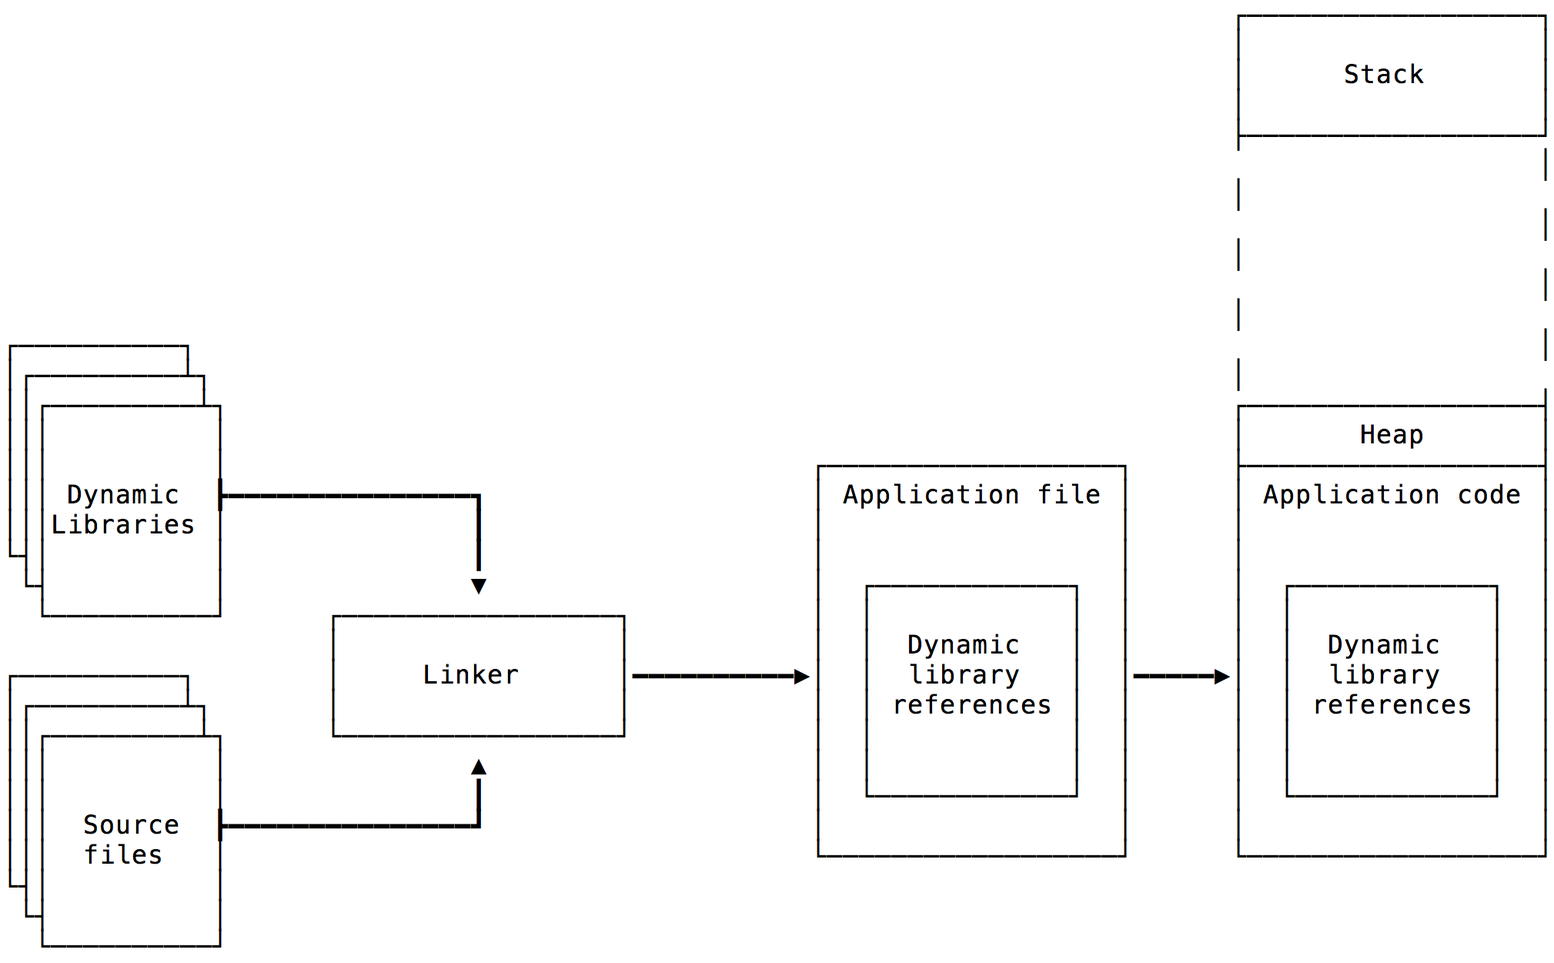
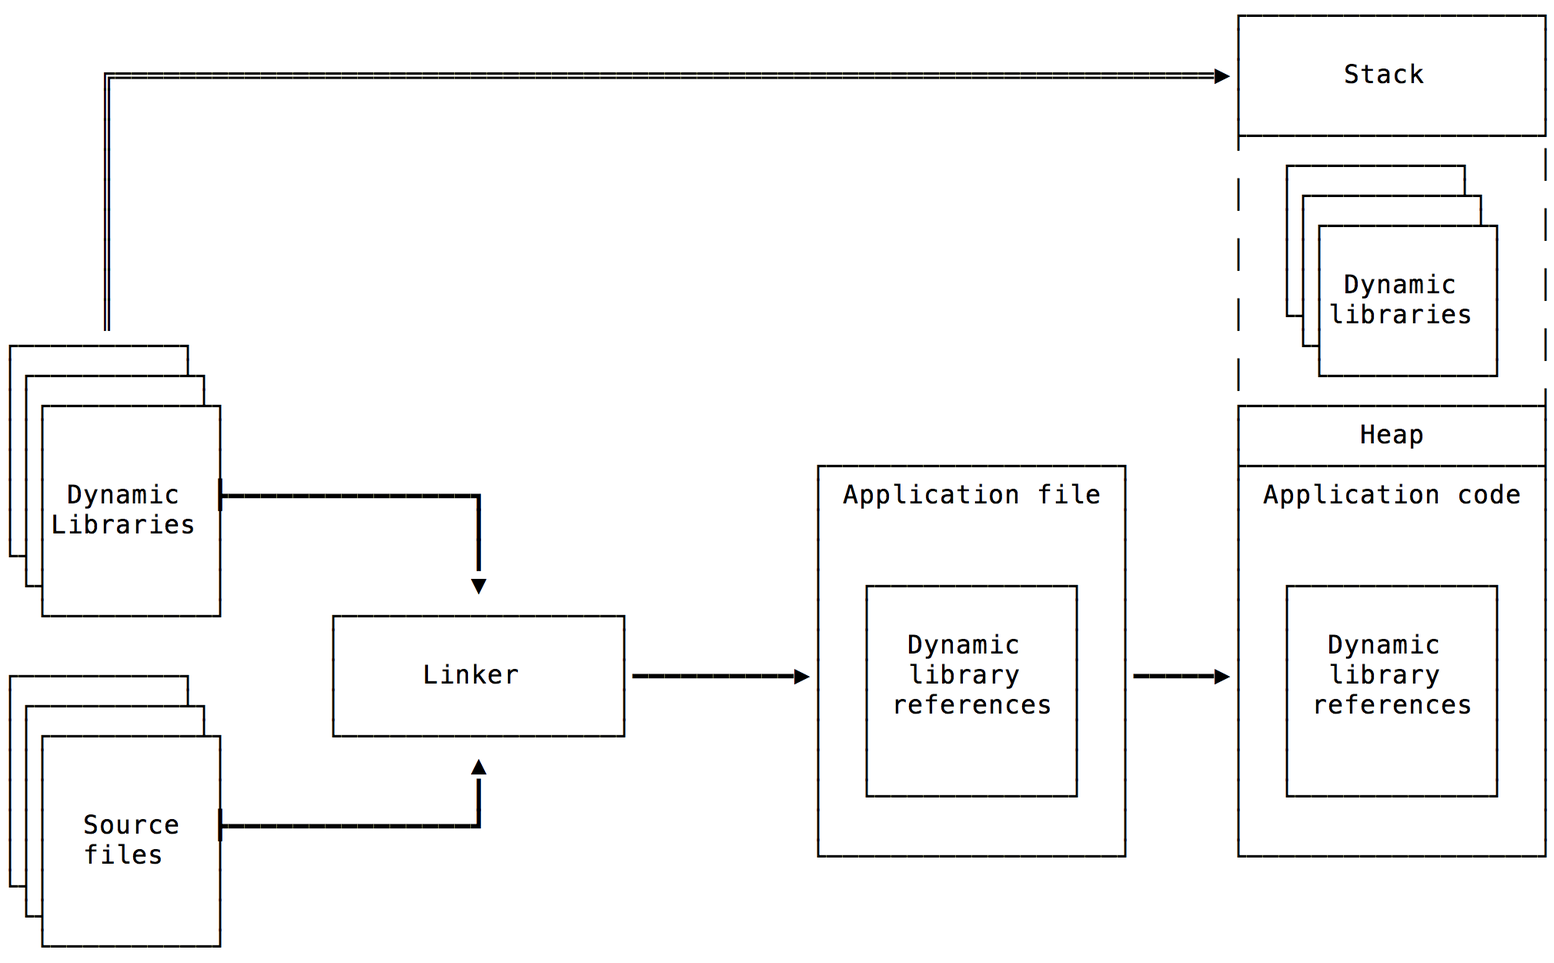
Finaliza edição até sessão sobre libs e frameworks

Changed region(s): [[0.0624, 0.0624, 0.8113, 0.3429], [0.8113, 0.1559, 0.9673, 0.3429], [0.8425, 0.3741, 0.9673, 0.4053]]

diff --git a/_posts/2017-03-01-experiiecia-de-modularizacao-de-uma-biblioteca.md b/_posts/2017-03-01-experiiecia-de-modularizacao-de-uma-biblioteca.md
@@ -8,181 +8,166 @@ category:   "arquitetura"
 
 > Tales Pinheiro ([@talesp](https://twitter.com/talesp){:target="_blank"}) é mestre em computação pelo IME-USP, trabalhou por 8 anos com backend bancário programando principalmente em C, quando em 2007 (antes do anúncio do primeiro iPhone!) resolveu aprender Objective-C. Ataulemte é um dos lideres do capitulo iOS na Concrete Solutions, onde continua em um projeto Objective-C, mas ajudando outros em Swift
 
-# Experiências na modularização de um projeto de um SDK
+# A história inicial
 
+Nos ultimos pouco mais de dois anos, a consultoria em que trabalho vem desenvolvendo diversos aplicativos para uma das maiores empresas do Brasil. Nós fomos inicalmente responsáveis por reescrever nativamente e melhorar os dois principais aplicativos desse cliente, pois as versões iniciais eram desenvolvidas numa tecnologia hibrida.
 
+Para facilitar a nossa vida e por questões de segurança (menos pessoas conhecendo áreas criticas do cliente), resolvemos criar um SDK/Framework com as partes comuns aos aplicativos, incluindo nele as partes comuns aos diversos aplicativos.
 
-# Cenário inicial
+Os projetos cresceram, o SDK cresceu, os times aumentaram em tamanho e em número e, é claro, a complexidade aumentou em todoas as pontas. Precisavamos novamente simplificar a nossa vida.
 
-- SDK comum a vários apps gerenciados por um time
-	- inclui bibliotecas estáticas desenvolvidas por outra empresa (segurança)
-	- além do time que gerencia, mais times internos "desconhecidos" alterando o código
-- Cada app usando o SDK desenvolvido por um ou mais times, de uma ou mais consultorias
-	- Questões estratégicas do cliente
-- Merges dificeis, manutenção complicada, versionamento insuficiente
-- Apps com suporte ao iOS 7, exigindo _linkagem_ estática
+Eu passei um tempo em um time responsável por manter o funcionamento do fluxo e desenvolvimento, que garante a coisas como documentação de _coding style_, cobertura de código, qualidade de código, _merges_ solicitados pelos diversos times, entre outras coisas da qualidade geral do projeto, de um dos aplicativos (temos outro time responsável pelo menos no outro grande aplicativo desse cliente), mas atualmente estou no time do SDK.
 
+Esse é um projeto menor, tocado por menos pessoas, mas bastante complexo, inicialmente desenvolvido por apenas um time, mas que já engloba dois (o meu time e um time de outra consultoria, especializada em segurança), com um terceiro entrando em breve.
 
-## SDK "atual"
+Por questões estratégicas, normalmente clientes desse tamanho não querem/podem depender de uma unica consultoria, e ao longo do tempo algumas consultorias foram adicionadas ao projeto.
+
+Com o aumento da complexidade dos projetos e da quantidade de pessoas e empresas - com culturas e opiniões diferentes sobre coisas como arquitetura dos projetos - algo precisava ser feito para manter a sanidade dos times. Modularizar apenas com um SDK comum aos projetos não era suficiente.
+
+Além disso, precisei fazer uma prova de conceito usando o SDK e esbarrei em um problema: ele depende do `UIKit`. Por ser uma base de código menor, resolvemos modularizar ainda mais, começando pelo SDK.
+
+## Cenário inicial do SDK
+
+Como disse antes, o SDK é comum a vários apps gerenciados pelo meu time (a parte _core_) com outro time de outra consultoria desenvolvendo pequenas bibliotecas da parte de segurança do aplicativo, que são enviadas para nós como bibliotecas que são _linkadas_ estaticamente ao nosso SDK. Esporadicamente algumas pessoas direto do cliente ainda fazem um _bypass_ no nosso time/processo em pequenas partes do projeto, para dicionar uma _feature_ para um dos projetos principais, mas esquecendo do outro, causando _bug_ (identificado em desenvolvimento pelos times do outro projeto ainda em desenvolvimento). E está entrando um time de outra consultoria para mexer no SDK. 
+
+Os aplicativos atualmente suportam o iOS 7, e isso exige que a distribuição do SDK seja como biblioteca para linkagem estática. Já temos no cliente aplicativos sendo desenvolvidos com suporte apenas ao iOS 9+, sendo escrito em Swift, mas como dependencias em Swift devem ser _frameworks_ dinâmicos, esse projeto teve inicialmente que usar CocoaPods para adicionar o SDK estaticamente, e o Carthage _linkando_ dinâmicamente as dependencias de terceiros escritas em Swift, mas o time de _devops_ do cliente barrou o Carthage - por enquanto, apenas CocoaPods pode ser usado nesse cliente.
+
+<!--
+Do lado dos aplicativos, temos projeto com mais ou menos 5 times de consultorias diferentes - com culturas diferentes - além de áreas diferentes no cliente exigindo a entrada de novas _features_ em prazos/datas específicas. Isso tudo deixa os _merge_ e a manutenção complicada, e o lançamento de novas versões gera bastante atrito.
+-->
+
+Como disse anteriormente, o SDK atual compreende então de três grandes áreas, todas distribuídas como um "framework" - não no sentido de _framework_ dinâmico criado pelo Xcode, mas numa estrutura similar criada via script, que embute os _assets_ (storyboards, `XIB`s e imagens) e funcionalidades das três áreas abaixo:
 
 - Comunicação
 - Segurança
 - UI Comum aos projetos
-	- Redesign ocorrendo nos apps, exigindo _proxy_ determinando qual interface usada
-		- `LoginViewController` vs `LoginViewControllerNew`
-	- Problema adicional: SDK unico atrelado a dependencia de UIKit, impedindo porte para watchOS e macOS
-- Sample (costuma estar desatualizado)
+
+Além disso, o time do SDK mantem um projeto Sample, para que os times dos apps saibam como usar o SDK. Esse sample tem o código fonte aberto internamente, mas o SDK é distribuído compilado.
 
 
 ## SDK "atual"
 
 ![]({{ site.baseurl }}/img/talesp/iphone-sample-ios.png)
 
-# Proposta
+Além dos problemas acima, esbarramos em um novo recentemente. Um grande redesign está ocorrendo nos apps, melhorando o design e a usabilidade geral dos apps, mas que não serão lançados ao mesmo tempo. Como o SDK também inclui telas, agora telas antigas que deverão ter suporte e novas em desenvolvimento, uma solução paleativa foi criada: criar um _proxy_ que determina qual a interface usada. Então, num exemplo simples, se tinhamos uma classe/tela `LoginViewController`, tivemos que adicionar a "nova" `LoginViewControllerNew`, e o proxy determina quem será usado. Além de duplicar classes, temos também _assets_ duplicados. E como pretendemos (pelo menos o time de SDK está se adiantando para isso, ainda não tem previsão de desenvolvimento) flexibilizar o SDK, poderia dar à área de negócios a decisão de lançar para outras plataformas Apple (watchOS, tvOS, macOS), hoje estamos intimamente "presos" ao UIKit.
 
-- Separar em 3 componentes principais
-	- _core_
-		- menor e mais simples
-	- segurança
-		- será mantido por outro time/consultoria
-	- UI
-		- versionamento do design simplificado
-- Distribuição e versionamento individual via CocoaPods
-- Futuramente modularizar o app inteiro
-	- Elimiação do _merge hell_
-	- facil verificação de pontos criticos e features "problemáticas"
-	- granulação dos indicadores de qualidade
+# Nossa proposta
 
+Pensamos então em separar os três compentes em 3 bibliotecas
+
+- _core_: menor base de código emais simples de manutenção
+- segurança: poderá ser mantida por outro time/consultoria
+- UI: com versionamento do design simplificado, podendo criar novas "versões" com interfaces para macOS e WatchOS
+
+Para iniciar a modularização, resolvemos focar em separar inicialmente apenas a parte de UI, que agora passará a ter duas versões _major_: a versão `1.0.0` seria a versão atual, e a versão `2.0.0` será a versão do redesign. 
+
+Futuramente pretendemos modularizar as maiores aplicações, o que eliminará o _merge hell_, vai facilitar a verificação de pontos críticos e _feature_ problemáticas, além de uma melhor granulação dos indicadores da cobertura de qualidade, facilitando a manutenção, administração e evolução do produto.
+
+Nossa proposta então é tornar o SDK independente da UI, podendo ser criado um aplicativo _Sample_ contendo apenas as funcionalidades "_core_", como abaixo:
 
 ![]({{ site.baseurl }}/img/talesp/proposed-arch-core.png)
 
-
+Ou um Sample que inclui a interface, com a biblioteca de UI tendo a biblioteca _core_ como dependencia via CocoaPods.
 ![]({{ site.baseurl }}/img/talesp/proposed-arch-full.png)
 
 
 # Primeiro passo: Separar a UI
 
-1. Criado novo projeto, que deve conter apenas código de UI
-2. Movido código de UI para novo projeto (mas não de testes de UI)
-3. Removido TODOS os arquivos de UI do projeto _core_
-4. Removido Sample (irá se tornar novo "app", já em desenvolvimento
+O processo geral - já efetuado - pode ser descrito de forma bastante simples. Foi:
 
-__Problemas:__ 
-- telas incluídas no _core_ são chamadas por métodos de rede, não pelos apps principais
-- _core_ não pode depender de UI
-- para times que usam novas libs, comunicação deve ser transparente e sem configuração
+1. Criado um novo projeto, que contém apenas código de UI e _assets_
+2. Movido código de UI para novo projeto (mas inicialmente não foi movido o código de testes de UI)
+3. Removido TODOS os arquivos de UI do projeto _core_ e eliminada a dependencia do UIKit
+4. Removido Sample (que está se tornando um novo "app", já em desenvolvimento) do _workspace_ do projeto do SDK.
+
+Mas temos aqui um problema:
+
+Algumas telas incluídas no _core_ são chamadas por métodos do _core_, não pelos apps principais. Por exemplo, alguns erros de comunicação já são exibidos para o usuário via chamada do _core_. Mas o _core_ não pode depender de UI. Além disso, para times que usam a nova biblioteca de UI, desejamos que a comunicação deve ser transparente e sem configuração.
+
+Como ter duas bibliotecas se comunicando, com o _core_ chamando métodos de UI sem saber da existência desses ou do UIKit?
 
 
 # Protocolos, ao resgate
 
-- _core_ define protocolos de exibição de interface
-- biblioteca de UI adota e implementa os métodos
-- truqes de _runtime_ do Objective-C (validos em Swift se classe herda de `NSObject`)
+Na nossa solução, a biblioteca _core_ define alguns protocolos de exibição de interface, que são então adotados pela biblioteca de UI - que tem o _core_ como dependencia.
+
+Mas queriamos que a biblioteca de UI fosse apenas adicionada ao Podfile dos aplicativos. Não queria ter que adicionar ao SDK a responsabilidade de registrar as classes de UI, nem ao desenvolvedor dos aplicativos chamar algum método de configuração. Alguns truqes de _runtime_ do Objective-C (validos em Swift se classe herda de `NSObject`) podem nos ajudar com isso. Mas antes...
 
 
 # Pequeno desvio: vamos falar sobre inicialização de objetos, bibliotecas e _frameworks_
 
+Para melhor entender a solução, vou explicar um pouco dobre o processo de inicialização de bibliotecas e de objetos em Objective-C.
 
-# Um pouco sobre inicialização de objetos
+## Um pouco sobre inicialização de objetos
 
-- magia do _runtime_ Objective-C
+Praticamente toda classe da Foundation e do UIKit herda de `NSObject` (com excessão de algumas que herdam de `NSProxy`, mas não vem ao caso para nossa solução). E classes que herdam de `NSObject` podem implementar dois métodos que podem ser bastante uteis nesse problema. Para entender melhor os dois, recomendo altamente o artigo [Friday Q&A 2009-05-22: Objective-C Class Loading and Initialization](https://www.mikeash.com/pyblog/friday-qa-2009-05-22-objective-c-class-loading-and-initialization.html), do Mike Ash (inclusive, recomendo fortemente o blog dele como um todo. ele está meio parado, mas o conteúdo é riquissimo).
+
 - `+load`
-	- chamado quando biblioteca é carregada em memória
-		- linkagem estática: na inicialização do app
+	- esse método é chamado quando biblioteca é carregada em memória. Se implementar esse método numa classe de seu aplicativo, o método será chamado na inicialização do aplicativo, mesmo que a classe nunca seja referenciada durante o ciclo de vida do aplicativo. Por exemplo, se você tem uma classe que cuida de impressão, mas o usuário nunca mandar imprimir nada, e você implementar esse método nessa classe, ainda sim o método será chamado.
+	- Se o método é implementado em uma biblioteca de terceiros, depende do tipo de _linkagem_ da biblioteca com seu aplicativo:
+		- linkagem estática: na inicialização do aplicativo
 		- linkagem dinâmica: na primeira chamada de um método da biblioteca
 - `+initialize`
-	- chamado quando primeiro método da classe é chamado
-	- _lazy_
-	- seria necessário time dos apps chamarem método de configuração para cada classe
+	- Esse método é um pouco mais _lazy_, e só é chamado quando primeiro método da classe é chamado. Assim, se durante a vida da aplicação, uma referência qualquer - chamada de método de classe, instância ou algo como `NSStringFromClass` ou `NSClassFromString` - não for chamada, esse método não é chamado. Além disso, é garantido pelo runtime que esse método será chamado apenas uma vez por class, na primeira referencia da mesma por terceiros.
+
+O método `+load` tem ainda uma caracteristica especial em relação ao _runtime_: se a classe e uma ou mais categorias implementar o método `+load`, todos serão executados
 
 
 ### Observação sobre `initialize` em Swift - Xcode 8.3 beta 3
 
+O documento de _Release Notes_ do Xcode 8.3 beta 3 inclui a seguinte observação.
+> Swift will now warn when an NSObject subclass attempts to override the class `initialize` method. Swift doesn't guarantee that references to class names trigger Objective-C class realization if they have no other side effects, leading to bugs when Swift code attempts to override initialize. (28954946)
 
-> Swift will now warn when an NSObject subclass attempts to override the class initialize method. Swift doesn't guarantee that references to class names trigger Objective-C class realization if they have no other side effects, leading to bugs when Swift code attempts to override initialize. (28954946)
+É bom tomar cuidado com isso, caso esteja usando Swift e pensar em uma implementação parecida
 
-
-## "Linkagem" estática vs dinâmica
-
-- funciona como forma de gerenciamento de dependencias
-- determinam quando o código objeto da biblioteca/_framework_ é carregado em memória
-- determinam como o código objeto da biblioteca/_framework_ é distribuído e incluído no projeto final
-
+E já que temos falado um pocuo sobre _linkagem_ estática e dinámica, e sobre bibliotecas e _frameworks_, vamos explicar um pouco sobre elas.
 
 ## "Linkagem" estática vs dinâmica
 
-- linkagem estática:
-	- código objeto é incluído diretamento no binário alvo
-	- Binários maiores e de inicialização mais lenta
-	- padrão pré-iOS 8
+_Linkar_ uma biblioteca ou framewor ao seu projeto funciona como a forma mais básica de gerenciamento de dependencias e distribuição/reutilização de código - seu ou de terceiros - em multiplos projetos. Mas a forma como você _linka_ a biblioteca ou framework impacta no tamanho do executavel, como a biblioteca ou _framework_ é distribuído e em que momento eles são carregados em memória e seu conteúdo é executado.
 
 
-## Linkagem dinamica
+### _Linkagem_ estática
 
-- '_linkagem_' dinâmica:
-	- nenhum código da biblioteca é adicionado ao binário
-	- carregado em memória em tempo de execução no instante que um de seus simbolos é requisitado
-	- como código não é anexado ao binário, pode ser atualizado sem recompilação
-	- Possuem processo de inicialização e finalização/limpeza próprios
+Vamos começar explicando a _linkagem_ estática. Nela, o conteúdo executável da biblioteca ou _framework_ que você está _linkando_ ao seu projeto é anexado diretamente ao binário final. No caso de um aplicativo iOS, por exemplo, não é ao arquivo `meuapp.ipa`, mas ao executável embutido dentro do arquivo ipa. Para quem não sabe, o arquivo ipa é na verdade um arquivo comprimido, contendo seu applicativo, informações da App Store e de _code signing_. Você pode alterar a extensão para `.zip`, descomprimir e abrir a pasta `Payload`, e lá estará seu aplicativo em um pacote com a extensão `.app`. Se clicar com o direito, e selecionar a opção "Mostrar conteúdo do pacote", vai encontrar dentro desta pasta coissa como _assets_, uma pasta chamada `_CodeSignature` com a assinatura/hash dos arquivos embutidos no pacote (para anti-tampering, e evitar que arquivos sejam modificados embutindo código malicioso) e seu binário efetivamente, no formato de executável Unix.
 
+Assim, _linkar_ estáticamente uma biblioteca ou framework (falaremos um pouco mais sobre este daqui a pouco) ao seu projeto deixa este executável maior, consequentemente com maior tempo de inicialização do aplicativo em memória.
+Mas até o iOS 8, esta era a unica forma de _linkar_ código de terceiro ao seu projeto
 
-## dinâmico
-![]({{ site.baseurl }}/img/talesp/mono-dynamic.png)
-
-
-
-### Bibliotecas (_libraries_) vs Arcabouços (_Frameworks_)
-- bibliotecas:
-	- Binário Match-O carregado na inicialização ou execução
-	- evita repetição da cópia do código executável entre aplicação e extensões - código só existe em um local
-	- responsável por avisar ao _linker_ ocódigo adicional necessário
-	- usam a extensão `.dylib`
-- _frameworks_:
-	- analogo a bibliotecas
-	- embutidos em um pacote
-	- permite versionamento da biblioteca
-	- pode incluir _assets_
-
-^ match-o: https://developer.apple.com/library/content/documentation/DeveloperTools/Conceptual/MachOTopics/0-Introduction/introduction.html
-
-
-## linkagem estática
-
-- inclui o código objeto diretamente no binário alvo
-- aumento do tamanho do binário alvo
-- aumento do tempo de inicialização do app
-- alteração na biblioteca exige recompilação do binário alvo
-- unico método de incluir código de terceiros até iOS 8
-
-
-### Bibliotecas estática vs _Frameworks_ estático
-- biblioteca:
-	- recipiente de conjunto de código objeto - arquivo `*.o` gerado pelo compilador
-	- usam extensão `.a` - `ar`_chive_ junta
-	- ideal para incluir um conjunto de arquivos objetos de uma unica biblioteca de código
-
-
-### Bibliotecas estática vs _Frameworks_ estático
-- biblioteca:
-	- _linker_ só pode usar arquivos objetos de uma arquitetura:
-		- dois formatos _container_:
-			1. arquivos objeto de mesma arquitura em unico `ar`_chive_
-			2. binário _fat_ Match-O, criado com comando `lipo`
-
-^ binario gordo: formato simples q armazena multiplos arqs de diff arquiteturas
-
-
-### Bibliotecas estática vs _Frameworks_ estático
-- _framework_:
-	- pacote contendo um arquivo de biblioteca estática
-	- forma conveniente de publicar _assets_ como imagens, fontes, arquivos de áudio, etc
-- Criado manualmente ou via script - Xcode não tem template
-
-
-## estático
-
+Na imagem abaixo podemos ver que o _linker_ pega os diversos arquivos compilados e as diversas bibliotecas que você inclui no seu projeto e gera um binário final. Esse binário contém seu código e as bibliotecas compiladas,e carrega tudo no _heap_ de memória durante a execução
 ![]({{ site.baseurl }}/img/talesp/mono-static.png)
 
+### Linkagem dinamica
+
+A segunda forma  de _linkar_ código de terceiro ao seu projeto é a dinâmica: Nesse, nenhum código ou conteúdo executável é anexado diretamente ao binário principal. O _linker_ apenas adiciona referências ao conteúdo executável da biblioteca dinâmica, como endereços de memória e referência ao arquivo onde o executável deve buscar o código objeto e conteúdo executável.
+
+Assim, a principio, carregar o aplicativo em memória é mais rápido, pois a biblioteca é carregada dinâmicamente quando um de seus simbolos é requisitado. No iOS, watcOS e tvOS não é possível, mas no macOS você pode distribuir uma nova versão da biblioteca sem ter que distribuir uma nova versão do aplicativo, já que o novo código é buscado/carregado na nova inicalização do aplicativo. Além disso, as bibliotecas dinâmicas possuem ciclo de vida e processo de inicialização e finalização/limpeza de memória própios.
+
+Mas não é porque o binário final do aplicativo fica menor que podemos sair adicionando diversas bibliotecas ao projeto no iOS: no processo de inicialização, a assinatura do seu aplicativo e de todas as bibliotecas é verificada, o que é um processo também demorado.
+
+Na imagem abaixo podemos ver que, diferente da _linkagem_ estática, aqui apenas a referência as bibliotecas dinâmicas é adicionada ao seu aplicativo, e que as bibliotecas são carregadas, durante a execução, na pilha de memória, e não no _heap_ junto com o aplicativo.
+![]({{ site.baseurl }}/img/talesp/mono-dynamic.png)
+
+## Bibliotecas (_libraries_) vs Arcabouços (_Frameworks_)
+
+Temos falado aqui de bibliotecas, mas e os _frameworks_?
+
+De forma mais técnica, uma biblioteca é um arquivo em formato binário [Match-O](https://developer.apple.com/library/content/documentation/DeveloperTools/Conceptual/MachOTopics/0-Introduction/introduction.html), que dependendo da forma de _linkagem_, é carregado na inicalização do aplicativo ou dinâmicamente de acordo com a necessidade.
+
+Bibliotecas dinâmicas evitam a repetição/cópia de código entre a aplicação e extensões - como extensões de teclado, _Today extenions_ e da Siri - pois o binário existe em apenas um local - com a linkagem estática, o conteúdo da biblioteca é copiado dentro de cada extensão. 
+
+Ao compilar um ou mais arquivos fontes, cada um gera um arquivo `*.o`, chamado de arquivo objeto, que contém o código executável daquele arquivo. Uma biblioteca é um recipiente para um conjunto de arquivos objetos. Bibliotecas estáticas usam a extensão `.a`, gerado ao `ar`quivar um conjunto de arquivos objeto, e bibliotecas dinâmicas possuem a extensão `.dylib`.
+
+Uma caracteristica do processo de _linkagem_ é que na compilação o _linker_ só pode usar arquivos objeto de uma arquitetura. Por isso existem dois "formatos" de biblioteca estática, chamados de _container_:
+
+1. arquivos objeto de mesma arquitura em unico `ar`_chive_
+2. binário _fat_ Match-O, criado com comando `lipo`
+
+Com o comando `lipo` é possível pegar diversos arquivos de biblioteca com os mesmo arquivos objetos mas em diferentes arquiteturas, e incluir tudo em um unico "binário gordo", facilitando a distribuição.
+
+Já os _frameowrks_ são analogos a bibliotecas, mas funcionam como um pacote, onde é possível incluir _assets_ (sons, imagens, vídeos, fontes, etc), _storyboards_, arquivos `NIB` (a versão compilada do `XIB`) entre outras coisas. Frameworks dinâmicos pode também ser [versionados](https://developer.apple.com/library/content/documentation/MacOSX/Conceptual/BPFrameworks/Concepts/VersionInformation.html#//apple_ref/doc/uid/20002255-BCIECADD)
+
+Infelizmente o Xcode não possui um _template_ para criação de bibliotecas estáticas, mas é possível cria-las via _script_, sendo assim possível distribuir o nosso SDK como um _framework_, mas para linkagem estática, distribuindo assim em conjunto as imagens e storyboards comuns aos aplicativos.
 
 # Voltando a programação normal
 
@@ -388,3 +373,4 @@ UI:
 - [CocoaPods: Working With Internal Pods Without Hassle](http://albertodebortoli.com/blog/2014/03/11/cocoapods-working-with-internal-pods/)
 - [Objective-C Class Loading and Initialization](https://www.mikeash.com/pyblog/friday-qa-2009-05-22-objective-c-class-loading-and-initialization.html)
 - [Using CocoaPods to Modularize a Big iOS App](http://product.hubspot.com/blog/architecting-a-large-ios-app-with-cocoapods)
+- [Framework Programming Guide](https://developer.apple.com/library/content/documentation/MacOSX/Conceptual/BPFrameworks/Frameworks.html)
